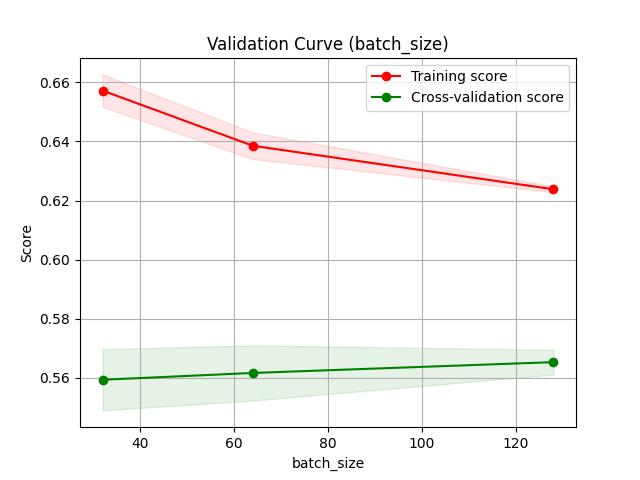
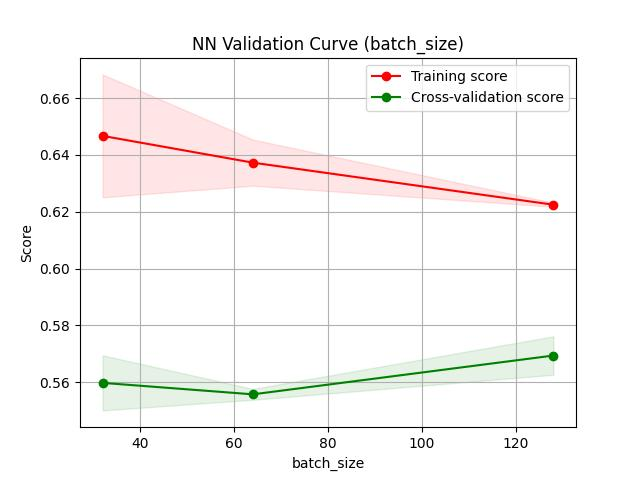
SVM algorithm works

diff --git a/wine/NN_multi_analysis.py b/wine/NN_multi_analysis.py
@@ -9,8 +9,9 @@ from tensorflow.keras.layers import Dense
 from tensorflow.keras.optimizers import Adam
 
 from sklearn.model_selection import train_test_split, learning_curve, validation_curve
-from scikeras.wrappers import KerasClassifier, KerasRegressor
+from scikeras.wrappers import KerasClassifier
 from sklearn.preprocessing import StandardScaler, MinMaxScaler, RobustScaler
+from sklearn.svm import SVC
 import matplotlib.pyplot as plt
 
 # Customized Libraries
@@ -26,6 +27,7 @@ with open("../analysis_configs.json5", "r") as f:
 
 # Extract hyperparameters for Wine dataset NN
 wine_nn_config = config["wine"]["NN"]
+wine_svm_config = config["wine"]["SVM"]
 
 TEST_SIZE = wine_nn_config["TEST_SIZE"]
 RANDOM_STATE = wine_nn_config["RANDOM_STATE"]
@@ -39,9 +41,13 @@ OPTIMIZER = wine_nn_config["OPTIMIZER"]
 BINARY_LOSS = wine_nn_config["BINARY_LOSS"]
 MULTIPLE_LOSS = wine_nn_config["MULTIPLE_LOSS"]
 METRIC = wine_nn_config["METRIC"]
-HYPERPARAMETER_RANGES = wine_nn_config["HYPERPARAMETER_RANGES"]
+NN_HYPERPARAMETER_RANGES = wine_nn_config["HYPERPARAMETER_RANGES"]
 
-# Step 1: Load the wine quality dataset
+SVM_C = wine_svm_config["C"]
+SVM_KERNEL = wine_svm_config["KERNEL"]
+SVM_GAMMA = wine_svm_config["GAMMA"]
+
+# ========== Step 1: Load the wine quality dataset ==========
 red_wine_url = "https://archive.ics.uci.edu/ml/machine-learning-databases/wine-quality/winequality-red.csv"
 white_wine_url = "https://archive.ics.uci.edu/ml/machine-learning-databases/wine-quality/winequality-white.csv"
 
@@ -54,12 +60,8 @@ white_wine["type"] = 1
 wine_data = pd.concat([red_wine, white_wine])
 print(wine_data.head())
 
-# Step 2: Process the wine dataset
-# # For red/white binary classification
-# X = wine_data.drop("type", axis=1)
-# y = wine_data["type"]
-
-# For quality mul-ti classification
+# ========== Step 2: Process the wine dataset ==========
+# For quality multi-class classification
 X = wine_data.drop(["quality"], axis=1)
 y = wine_data["quality"]
 
@@ -67,8 +69,7 @@ X_train, X_test, y_train, y_test = train_test_split(
     X, y, test_size=TEST_SIZE, random_state=RANDOM_STATE
 )
 
-# [Improvement] Multiple Scaler Options
-# It is added to improve the performance of the NN, better converging speed
+# [Improvement] Multiple Scaler Options (It is added to improve the performance of the NN, better converging speed)
 scaler = StandardScaler()
 # scaler = MinMaxScaler()
 # scaler = RobustScaler()
@@ -76,35 +77,12 @@ scaler = StandardScaler()
 X_train = scaler.fit_transform(X_train)
 X_test = scaler.transform(X_test)
 
-# Step 3: Build and train the model
 
-# binary model (Q1: red/white)
-# model = Sequential(
-#     [
-#         Dense(64, activation=ACTIVATION, input_shape=(X_train.shape[1],)),
-#         Dense(64, activation=ACTIVATION),
-#         Dense(1, activation=BINARY_ACTIVATION),
-#     ]
-# )
+# ========== Step 3: Build and train the NN model ==========
 
-# model.compile(optimizer=OPTIMIZER, loss=BINARY_LOSS, metrics=[METRIC])
+##[NN]
 
-# history = model.fit(
-#     X_train,
-#     y_train,
-#     epochs=EPOCHS,
-#     batch_size=BATCH_SIZE,
-#     validation_split=VALIDATION_SPLIT,
-# )
-
-# for key in history.history.keys():
-#     print(f"{key}: {history.history[key]}")
-
-# multiple model (Q2: wine quality)
-
-
-# Function to create model
-def create_model(
+def create_nn_model(
     optimizer="adam",
     loss="sparse_categorical_crossentropy",
     metrics=["accuracy"],
@@ -116,18 +94,13 @@ def create_model(
             Dense(64, activation=activation, input_shape=(X_train.shape[1],)),
             Dense(64, activation=activation),
             Dense(10, activation=output_activation),  # 7 classes for labels 3 to 9
-            # Dense(7, activation=output_activation),  # 7 classes for labels 3 to 9
         ]
     )
     model.compile(optimizer=optimizer, loss=loss, metrics=metrics)
     return model
 
-
-model = create_model()
-
-model.compile(optimizer=OPTIMIZER, loss=MULTIPLE_LOSS, metrics=[METRIC])
-
-history = model.fit(
+nn_model = create_nn_model()
+nn_history = nn_model.fit(
     X_train,
     y_train,
     epochs=EPOCHS,
@@ -135,46 +108,59 @@ history = model.fit(
     validation_split=VALIDATION_SPLIT,
 )
 
-for key in history.history.keys():
-    print(f"{key}: {history.history[key]}")
+## [SVM]
+svm_clf = SVC(kernel=SVM_KERNEL, random_state=RANDOM_STATE, probability=True)
+svm_history = svm_clf.fit(X_train, y_train)
 
-# Step 4: Validate the model
-test_loss, test_metric = model.evaluate(X_test, y_test)
-print(f"Test Loss: {test_loss}")
-print(f"Test {METRIC}: {test_metric}")
+# ========== Step 4: Validate the model ==========
+## [NN]
+test_loss, test_metric = nn_model.evaluate(X_test, y_test)
+print(f"NN Test Loss: {test_loss}")
+print(f"NN Test {METRIC}: {test_metric}")
 
-# Step 5: Make conclusions
-# Plotting iterative learning curves by iteration
-plot_iterative_learning_curves(
-    history, metric=METRIC, save_path="images/nn_iterative_learning_curve"
-)
+## [SVM]
 
-# Step 6: Plot learning curve with varying training sizes
-keras_clf = KerasClassifier(
-    model=create_model,
+svm_test_metric = svm_clf.score(X_test, y_test)
+print(f"SVM Test {METRIC}: {svm_test_metric}")
+
+
+# ========== Step 5: Plot learning curves ==========
+## [NN]
+nn_clf = KerasClassifier(
+    model=create_nn_model,
     epochs=EPOCHS,
     batch_size=BATCH_SIZE,
     validation_split=VALIDATION_SPLIT,
 )
-# 1. Plot learning curve
+
 plot_learning_curve(
-    keras_clf,
-    "Learning Curve",
+    nn_clf,
+    "NN Learning Curve",
     X_train,
     y_train,
     cv=3,
     save_path="images/nn_learning_curve.jpg",
 )
-plt.show()
 
-# 2. Plot validation curve with parameter range for 'param_name'
-for hyperparameter in HYPERPARAMETER_RANGES:
+## [SVM]
+plot_learning_curve(
+    svm_clf,
+    "SVM Learning Curve",
+    X_train,
+    y_train,
+    cv=3,
+    save_path="images/svm_learning_curve.jpg",
+)
+
+# ========== Step 6: Plot validation curves ==========
+# NN Validation Curves
+for hyperparameter in NN_HYPERPARAMETER_RANGES:
     param_name = hyperparameter
-    param_range = HYPERPARAMETER_RANGES[hyperparameter]
+    param_range = NN_HYPERPARAMETER_RANGES[hyperparameter]
 
     plot_validation_curve(
-        keras_clf,
-        f"Validation Curve ({param_name})",
+        nn_clf,
+        f"NN Validation Curve ({param_name})",
         X_train,
         y_train,
         param_name=param_name,
@@ -182,4 +168,51 @@ for hyperparameter in HYPERPARAMETER_RANGES:
         cv=3,
         save_path=f"images/nn_validation_curve_{param_name}.jpg",
     )
-    plt.show()
+
+# SVM Validation Curves
+for param_name, param_range in zip(["C", "gamma"], [SVM_C, SVM_GAMMA]):
+    plot_validation_curve(
+        svm_clf,
+        f"SVM Validation Curve ({param_name})",
+        X_train,
+        y_train,
+        param_name=param_name,
+        param_range=param_range,
+        cv=3,
+        save_path=f"images/svm_validation_curve_{param_name}.jpg",
+    )
+
+# ========== Step 8: Plot combined iterative learning curves ==========
+# histories = [nn_history, svm_history]
+# labels = ["Neural Network", "SVM"]
+histories = [nn_history]
+labels = ["Neural Network"]
+plot_iterative_learning_curves(
+    histories, labels, metric=METRIC, save_path="images/iterative_learning_curve"
+)
+
+
+## [SVM] Comparision between different kernal functions
+kernel_functions = ["linear", "poly", "rbf", "sigmoid"]
+histories = []
+labels = []
+
+for kernel in kernel_functions:
+    svm_clf = SVC(
+        kernel=kernel, random_state=RANDOM_STATE, C=1, gamma="scale"
+    )  # Fixed C and gamma for comparison
+    svm_clf.fit(X_train, y_train)
+
+    # Plot learning curve
+    plot_learning_curve(
+        svm_clf,
+        f"SVM Learning Curve ({kernel} kernel)",
+        X_train,
+        y_train,
+        cv=3,
+        save_path=f"images/svm_learning_curve_{kernel}.jpg",
+    )
+
+    # Save history and labels for combined iterative learning curve
+    histories.append(svm_clf)
+    labels.append(f"SVM ({kernel})")

diff --git a/wine/utils/plotting.py b/wine/utils/plotting.py
@@ -162,3 +162,34 @@ def plot_iterative_learning_curves(history, metric="accuracy", save_path=None):
     else:
         plt.show()
     plt.close()
+
+def plot_iterative_learning_curves(histories, labels, metric='accuracy', save_path=None):
+    plt.figure(figsize=(12, 6))
+    for history, label in zip(histories, labels):
+        plt.plot(history.history["loss"], label=f"{label} Train Loss")
+        plt.plot(history.history["val_loss"], label=f"{label} Validation Loss")
+    plt.xlabel("Iteration")
+    plt.ylabel("Loss")
+    plt.title("Iterative Learning Curve (Loss)")
+    plt.grid(visible=True)
+    plt.legend(frameon=False)
+    if save_path:
+        plt.savefig(save_path + "_loss.jpg")
+    else:
+        plt.show()
+    plt.close()
+
+    plt.figure(figsize=(12, 6))
+    for history, label in zip(histories, labels):
+        plt.plot(history.history[metric], label=f"{label} Train {metric.capitalize()}")
+        plt.plot(history.history[f"val_{metric}"], label=f"{label} Validation {metric.capitalize()}")
+    plt.xlabel("Iteration")
+    plt.ylabel(metric.capitalize())
+    plt.title(f"Iterative Learning Curve ({metric.capitalize()})")
+    plt.grid(visible=True)
+    plt.legend(frameon=False)
+    if save_path:
+        plt.savefig(save_path + f"_{metric}.jpg")
+    else:
+        plt.show()
+    plt.close()
